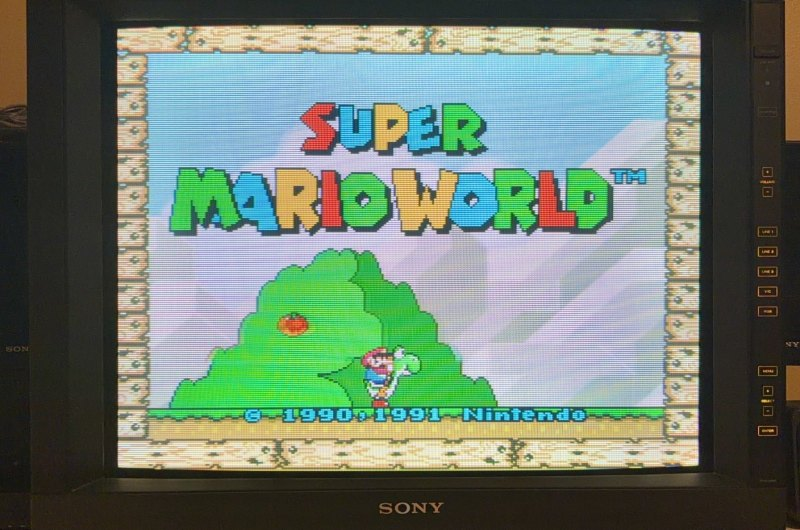
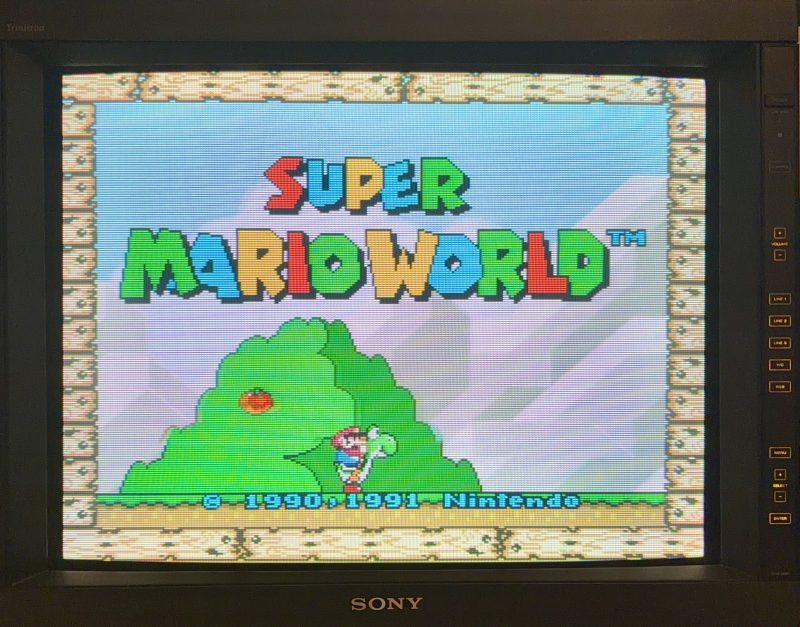
Recrop the PVM-2950Q: tighter sides, the top of the cabinet back
Recut from the IMG_3926 master rather than the published file. The old crop
started 113px below the top of the cabinet -- the top bezel and the Trinitron
badge were cut off -- and ran wide enough on both sides to include a slice of
the monitor either side of it.

New crop (375,12)-(2642,1790): the whole top bezel, both neighbours gone, the
left cabinet cheek trimmed to just outside the Trinitron badge, the button
column and the SONY badge untouched. 1600x1255, thumb 800x627, refs ?v=6 on
monitors.html and in the gallery. Screen-region sharpness went up (the crop is
tighter, so there is less downscaling), no EXIF, no rotation -- crop and resize
only.

Alt text also said 'both control strips'; this frame has one. Fixed.

diff --git a/assets/gallery-data.js b/assets/gallery-data.js
@@ -26,7 +26,7 @@ const GALLERY = [
   { type: "image", src: "media/2026/collectibles-shelf.jpg", title: "The shelf of accomplices", caption: "Gundam, Rick and Morty, and a full Thundercats bench keeping watch over the library", cat: "misc" , w: 800, h: 1067 },
   { type: "image", src: "media/2026/bvm-20e1u-lit.jpg", title: "BVM-20E1U", caption: "The primary broadcast chassis in the garage rack, AMS-100 on top — two BKM slots still open", cat: "monitors" , w: 800, h: 870 },
   { type: "image", src: "media/2026/bvm-a14f5u-lit.jpg?v=2", title: "BVM-A14F5U", caption: "Fully kitted: all three card slots filled, control panel and keypad flanking the tube", cat: "monitors" , w: 800, h: 603 },
-  { type: "image", src: "media/2026/pvm-2950q.jpg?v=5", title: "PVM-2950Q", caption: "The 29-inch presence in the game room, lit at night with Super Mario World on the tube", cat: "monitors" , w: 800, h: 530 },
+  { type: "image", src: "media/2026/pvm-2950q.jpg?v=6", title: "PVM-2950Q", caption: "The 29-inch presence in the game room, lit at night with Super Mario World on the tube", cat: "monitors" , w: 800, h: 627 },
   { type: "image", src: "media/2026/pvm-20l5.jpg?v=3", title: "PVM-20L5", caption: "Late-generation 20-inch multiformat, AMS-100 on top, Super Mario Sunshine on the tube", cat: "monitors" , w: 800, h: 834 },
   { type: "image", src: "media/2026/dk-portrait.jpg?v=2", title: "Donkey Kong", caption: "Blue plywood &mdash; marquee lit in the garage row", cat: "arcade" , w: 800, h: 1067 },
   { type: "image", src: "media/2026/unisystem-screen.jpg?v=2", title: "VS. Super Mario Bros.", caption: "The dedicated UniSystem in attract mode &mdash; the arcade version, which is not the one you remember", cat: "arcade" , w: 800, h: 600 },

diff --git a/monitors.html b/monitors.html
@@ -168,7 +168,7 @@
     <h2 class="sec">The fleet roster</h2>
     <div class="grid fleetgrid">
       <div class="card">
-        <img class="cthumb" src="media/thumbs/pvm-2950q.jpg?v=5" data-full="media/2026/pvm-2950q.jpg?v=5" alt="Sony PVM-2950Q 29-inch Trinitron production monitor lit at night running Super Mario World, both control strips and the SONY badge in frame" loading="lazy" width="800" height="530">
+        <img class="cthumb" src="media/thumbs/pvm-2950q.jpg?v=6" data-full="media/2026/pvm-2950q.jpg?v=6" alt="Sony PVM-2950Q 29-inch Trinitron production monitor lit at night running Super Mario World, its control panel and the SONY badge in frame" loading="lazy" width="800" height="627">
         <div class="sub">PVM &middot; Production</div>
         <h3>PVM-2950Q</h3>
         <p>Twenty-nine inches of presence, the biggest tube in the room. On screen: <em>Super Mario World</em>, 1990.</p>

diff --git a/CLAUDE.md b/CLAUDE.md
@@ -186,7 +186,13 @@ Vercel auto-deploys `main`; allow ~40s before verifying.
   **Align with `object-fit:contain` instead** — a uniform plate the whole photo sits inside,
   `background:transparent` so the card's own gradient mats it. monitors.html's roster is
   `aspect-ratio:7/6` (the geometric mean of the four photos' ratios, so the matting is even),
-  two columns, nothing cropped, rows perfectly aligned. **Verify a "no-crop" layout
+  two columns, nothing cropped, rows perfectly aligned. **Recropping the source photo is a
+  different thing and he asks for it** — `pvm-2950q.jpg` was recut from the
+  `IMG_3926.jpg` master at `(375,12)-(2642,1790)` → 1600×1255 / thumb 800×627, `?v=6`: the
+  old frame clipped 113px off the top of the cabinet and carried a slice of a neighbouring
+  monitor down each side. The limits on that photo are the **Trinitron badge** (master
+  x≈385) on the left and the **button column** (master x 2533–2634) on the right; crop past
+  either and you are back to removing features. **Verify a "no-crop" layout
   numerically** — measure each rendered box against `naturalWidth/Height` and assert the
   scaled image fits inside it; do not eyeball it.
 - **A card without a photo cannot share a grid row with one that has a photo.** In an
